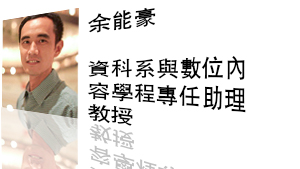
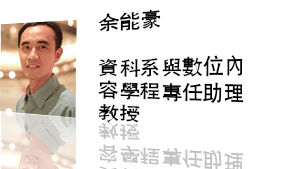
increasing shadow effect and add green background

diff --git a/member.html b/member.html
@@ -35,6 +35,18 @@ and open the template in the editor.
 			ul{
 				width: 100px;
 			}
+			.content{
+			  color: #606060;
+			}
+			.content:hover{
+			background-color:#1ac70e;
+			color:#FFFFFF;
+    		-o-transition: color .10s linear;
+    		-webkit-transition: color .10s linear;
+    		-moz-transition: color .10s linear;
+    		transition:  color .10s linear;
+			
+			}
 		</style>
     </head>
     <body>
